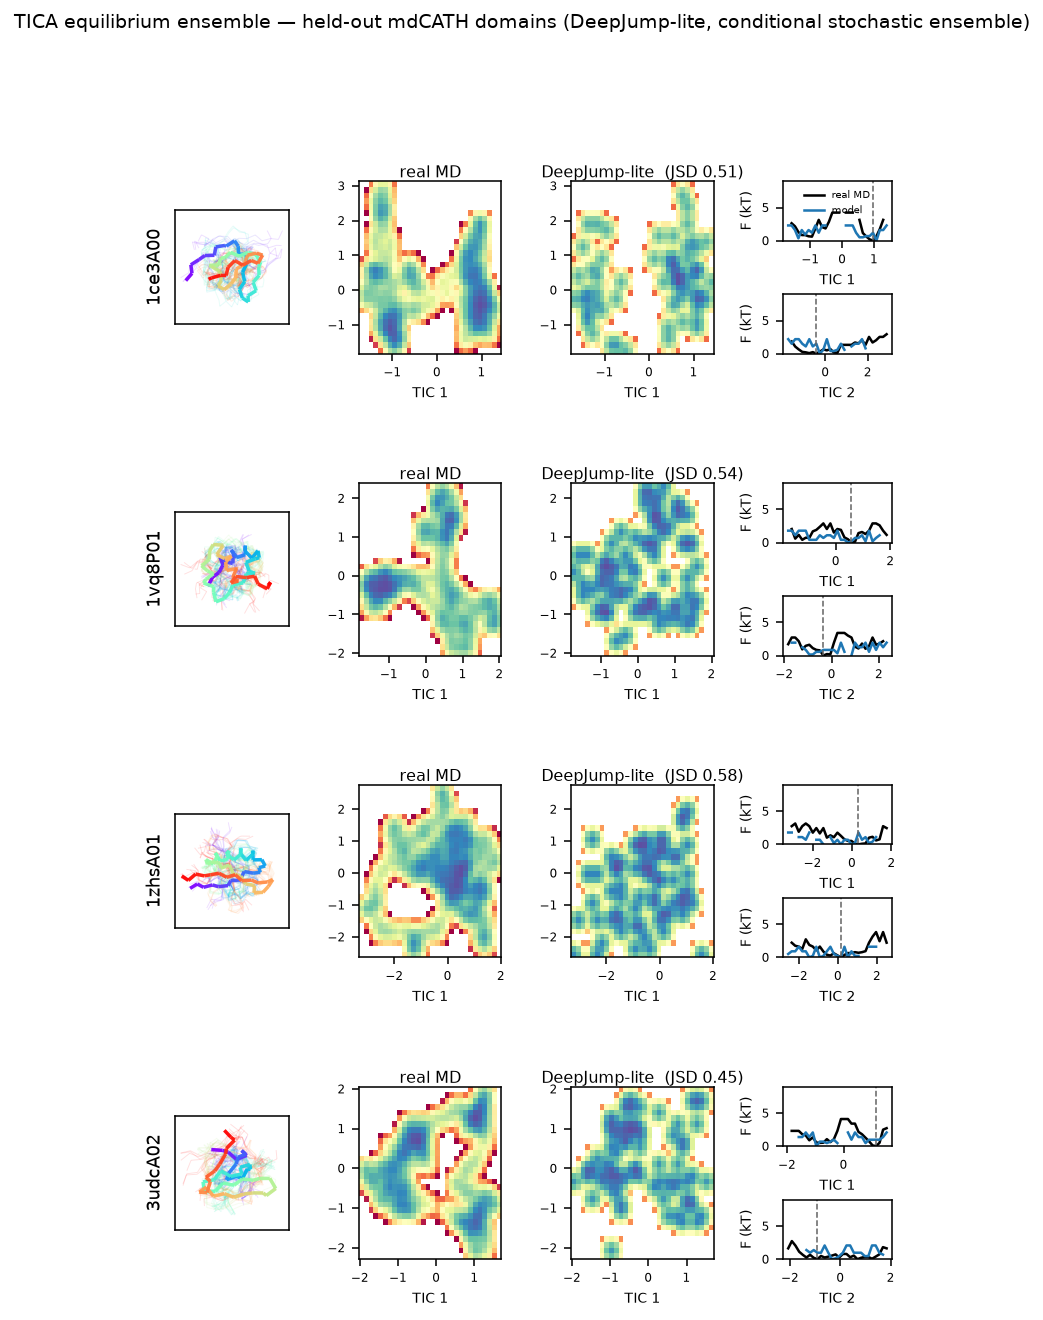
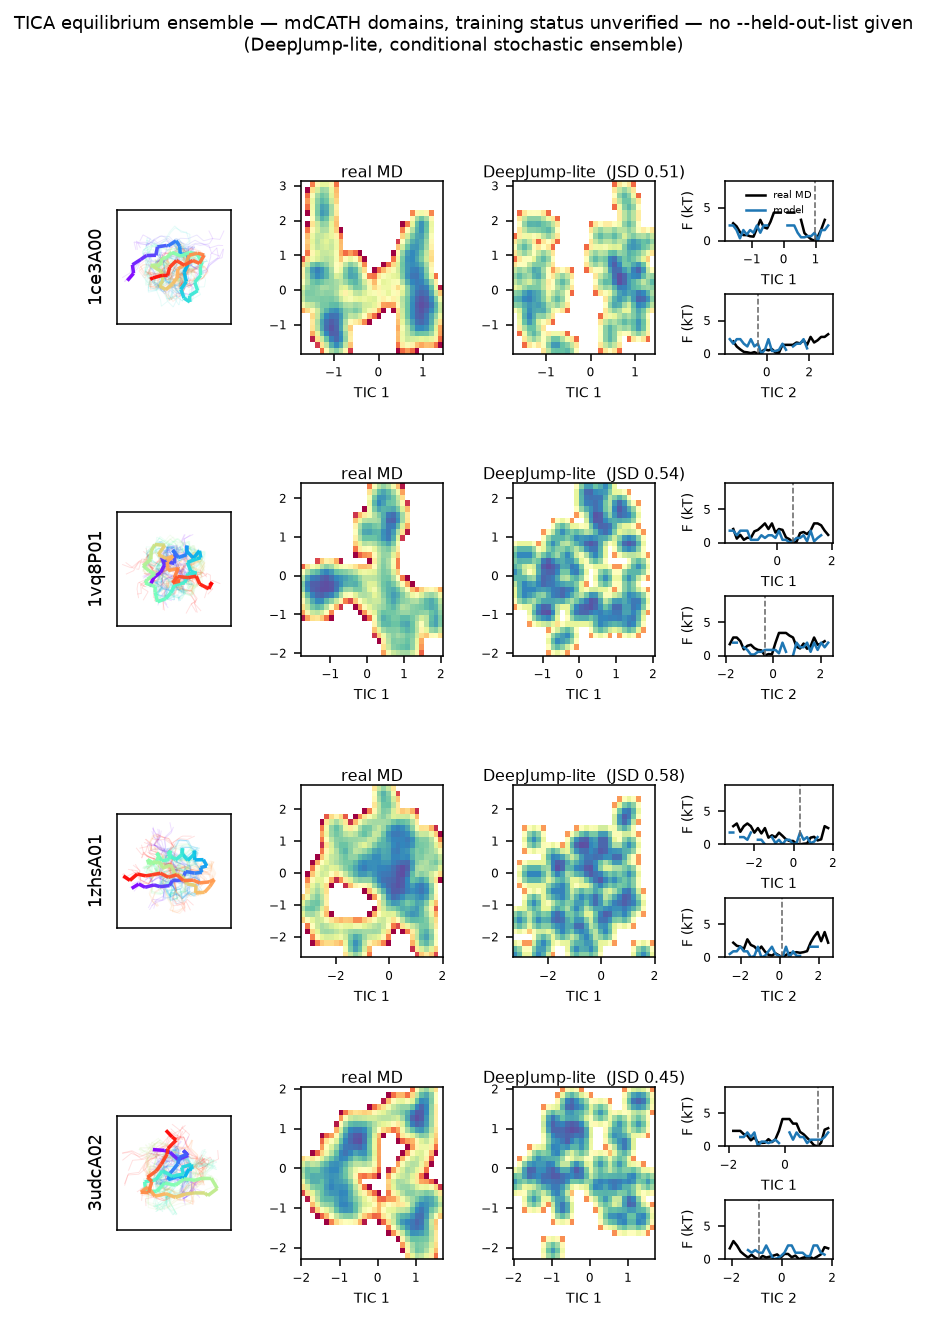
Stop the panel from asserting held-out provenance it cannot show
The figure title read "held-out mdCATH domains" unconditionally while the rows
came from split_domains() over whatever mdCATH shards sit on local disk. That
says nothing about what a checkpoint trained on. The formal 500k contract
records 5,218 train domains out of mdCATH's 5,398, with 180 excluded and
val_fraction 0.02, so roughly 5% of domains were withheld -- four independently
drawn domains all landing in that 5% has probability ~1e-5. The four domains in
the committed figure are almost certainly training domains, and the label was
wrong.

Derive the label instead of asserting it: without --held-out-list the figure
says "training status unverified", and with one it checks each row and prints a
warning naming any trained-on domain rather than quietly claiming otherwise.

This does not affect the sampler comparison the figure supports. That experiment
holds checkpoint and domains fixed and varies only the sampler, so it isolates
what it claims to. What it cannot support is a generalisation claim about unseen
proteins, and REPORT.md section 0a and the findings doc now say so. Settling it
needs the training list at train_eligible_5218.txt (sha256 e6844f2f...6416e),
which lives on the cloud host and is not mirrored locally.

(cherry picked from commit 6bebbd83f178296da079a4465e2065aad7ffe6ab)

diff --git a/scripts/tica_panel.py b/scripts/tica_panel.py
@@ -2,7 +2,7 @@
 """Paper-style TICA panel figure (structure overlay + 2D free-energy heatmaps + marginals).
 
 Reproduces the *layout* of the DeepJump equilibrium-ensemble figure, but honestly on OUR
-scale/data: held-out mdCATH domains (NOT the DESRES fast folders), a DeepJump-native
+scale/data: mdCATH domains (NOT the DESRES fast folders), a DeepJump-native
 stochastic conditional ensemble (K ODE single-jumps per start frame), no folding.
 
 Per domain (one block) we draw 4 sub-panels, exactly like the paper:
@@ -229,7 +229,7 @@ def build_domain(
 def main():
     ap = argparse.ArgumentParser()
     ap.add_argument("--ckpt", default="runs/faithful_scaled/last.ckpt")
-    ap.add_argument("--n", type=int, default=4, help="number of held-out domains (rows)")
+    ap.add_argument("--n", type=int, default=4, help="number of domains (rows)")
     ap.add_argument("--domains", nargs="*", default=None, help="explicit domain ids")
     ap.add_argument("--cols", type=int, default=1, help="protein blocks per figure row (1 or 2)")
     ap.add_argument("--starts", type=int, default=30)
@@ -243,6 +243,9 @@ def main():
     ap.add_argument("--terminal-denoise", action="store_true",
                     help="emit one endpoint prediction at tau_max instead of integrating into the singularity")
     ap.add_argument("--integrator", choices=["euler", "heun"], default="euler")
+    ap.add_argument("--held-out-list", default=None,
+                    help="file of domain ids the checkpoint did NOT train on; only with this "
+                         "does the figure claim the rows are held out")
     ap.add_argument("--out", default="docs/tica_panel.png")
     args = ap.parse_args()
 
@@ -261,6 +264,12 @@ def main():
                          predict_heavy=cm["predict_heavy"]).to(device)
     model.load_state_dict(ck["model"], strict=True); model.eval()
     print(f"loaded {args.ckpt}  H={cm['hidden']}  device={device}")
+
+    held_out_ids = None
+    if args.held_out_list:
+        held_out_ids = {line.strip() for line in Path(args.held_out_list).read_text().split()
+                        if line.strip()}
+        print(f"held-out list: {len(held_out_ids)} domain ids from {args.held_out_list}")
 
     files = discover_domains(args.root or cd["root"])
     if args.domains:
@@ -327,8 +336,19 @@ def main():
         if bi == 0:
             ax_t1.legend(fontsize=5, loc="upper center", frameon=False)
 
-    fig.suptitle("TICA equilibrium ensemble — held-out mdCATH domains (DeepJump-lite, "
-                 "conditional stochastic ensemble)", fontsize=10, y=1.0)
+    # Provenance must be demonstrated, not asserted. Selecting domains by
+    # split_domains() over whatever happens to be on local disk says nothing about
+    # what the checkpoint trained on: this checkpoint's contract lists 5218 train
+    # domains out of mdCATH's 5398, so a domain drawn without checking the real
+    # list is ~97% likely to have been trained on.
+    if held_out_ids is None:
+        provenance = "training status unverified — no --held-out-list given"
+    else:
+        seen = [b["name"] for b in blocks if b["name"] not in held_out_ids]
+        provenance = ("held-out domains" if not seen
+                      else f"WARNING: trained-on domains present ({', '.join(seen)})")
+    fig.suptitle(f"TICA equilibrium ensemble — mdCATH domains, {provenance}\n"
+                 "(DeepJump-lite, conditional stochastic ensemble)", fontsize=9, y=1.0)
     out = Path(args.out); out.parent.mkdir(parents=True, exist_ok=True)
     fig.savefig(out, dpi=140, bbox_inches="tight", facecolor="white")
     print(f"saved {out}")

diff --git a/tests/test_panel_provenance.py b/tests/test_panel_provenance.py
@@ -1,0 +1,62 @@
+"""The panel figure must not assert that its rows are held out.
+
+The title used to read "held-out mdCATH domains" unconditionally, while the rows
+were chosen by `split_domains()` over whatever mdCATH shards happened to be on
+local disk. That says nothing about what a checkpoint trained on: the formal
+500k contract records 5,218 train domains out of mdCATH's 5,398, so a domain
+drawn without consulting the real training list is ~97% likely to have been
+trained on. Four such domains all being held out has probability ~1e-5.
+
+Provenance now has to be demonstrated with `--held-out-list`, and a listed
+trained-on domain is surfaced rather than hidden.
+"""
+
+from pathlib import Path
+
+import pytest
+
+PANEL = Path(__file__).resolve().parents[1] / "scripts" / "tica_panel.py"
+
+
+@pytest.fixture(scope="module")
+def source():
+    return PANEL.read_text()
+
+
+def test_title_never_hardcodes_the_held_out_claim(source):
+    """The regression: an unconditional claim baked into the suptitle string."""
+    for line in source.splitlines():
+        if "suptitle" in line or ("held-out domains" in line and "provenance" not in line):
+            assert "held-out mdCATH domains" not in line, (
+                "the figure title must not assert held-out provenance; derive it instead"
+            )
+
+
+def test_unverified_is_the_default_label(source):
+    assert "training status unverified" in source
+
+
+def test_a_trained_on_domain_is_surfaced(source):
+    """Supplying a list must be able to contradict the claim, not just confirm it."""
+    assert "WARNING: trained-on domains present" in source
+
+
+def test_the_held_out_list_option_exists(source):
+    assert '"--held-out-list"' in source
+
+
+def test_provenance_label_is_computed_from_the_list():
+    """Exercise the two branches the figure can print."""
+    held_out = {"1abcA00", "2defB01"}
+
+    def label(names, ids):
+        if ids is None:
+            return "training status unverified — no --held-out-list given"
+        seen = [n for n in names if n not in ids]
+        return "held-out domains" if not seen else (
+            f"WARNING: trained-on domains present ({', '.join(seen)})"
+        )
+
+    assert label(["1abcA00"], None).startswith("training status unverified")
+    assert label(["1abcA00", "2defB01"], held_out) == "held-out domains"
+    assert "3ghiC02" in label(["1abcA00", "3ghiC02"], held_out)

diff --git a/docs/FINDING_sampler_root_cause_20260902.md b/docs/FINDING_sampler_root_cause_20260902.md
@@ -118,7 +118,8 @@ originally written.
 
 ### `[MEASURED]` Re-measured with both defects fixed, the sampler fix wins everywhere
 
-Formal 500k checkpoint, four held-out domains, conditional stochastic ensemble,
+Formal 500k checkpoint, four mdCATH domains (training status unverified -- see the
+limitation below), conditional stochastic ensemble,
 20 starts x K=4, 50 Euler steps. Same checkpoint and domains throughout; only the
 sampler differs.
 
@@ -133,6 +134,26 @@ Figures: `docs/tica_panel.png` (fixed) and `docs/tica_panel_prefix_control.png`
 (control). 0.45-0.58 is not a good score -- the ensemble covers roughly the right
 region without reproducing real MD's basin structure -- but the ordering is now
 consistent across every domain tested.
+
+### `[LIMITATION]` The four comparison domains are almost certainly not held out
+
+`tica_panel.py` selected them with `split_domains()` over whatever mdCATH shards
+sit on the local disk (200 of 5,398). That says nothing about what the formal
+checkpoint trained on: its contract records **5,218 train domains** and 180
+excluded, and the run used `val_fraction: 0.02`, so roughly 284 of 5,398 domains
+(~5%) were withheld. Four independently drawn domains all landing in that 5% has
+probability ~1e-5.
+
+The comparison above is still valid for its purpose -- it isolates the sampler,
+with checkpoint and domains held fixed and only the sampler differing -- but it
+is **not** evidence about generalisation to unseen proteins, and the figure title
+no longer claims it is. `tica_panel.py` now labels provenance as unverified
+unless given `--held-out-list`, and warns if a listed trained-on domain appears.
+
+Verifying it needs the training list at
+`/data-full/mdcath/control/post_download_qualification/20260724T055218Z/full_training_contract/train_eligible_5218.txt`
[1 lines of base64/hex data omitted]
+which is on the cloud host and not mirrored locally.
 
 ### `[SUPERSEDED]` The earlier domain-dependent reading
 

diff --git a/REPORT.md b/REPORT.md
@@ -62,7 +62,7 @@ enlarging the grid.
 **Consequence: every JSD figure in §4.5 and §4.6 is void.** The apparent
 "scale ladder" (0.564 → 0.347) partly tracked how far each model diverged, not
 how faithful it was. Re-measured on the formal 500k checkpoint with both defects
-fixed, four held-out domains, same checkpoint and domains, only the sampler
+fixed, four mdCATH domains, same checkpoint and domains, only the sampler
 differing:
 
 | domain | pre-fix sampler | fixed sampler |
@@ -75,6 +75,14 @@ differing:
 The fix wins on every domain. It does not make the model good: 0.45–0.58 means
 the ensemble covers roughly the right region without reproducing real MD's basin
 structure. What the fix buys is a measurement that is no longer inverted.
+
+**Provenance caveat:** the four domains are selected by `split_domains()` over
+the local mdCATH shards, not against the checkpoint's own training list, and the
+formal contract records 5,218 train domains out of 5,398. They are almost
+certainly **not** held out. The comparison isolates the sampler correctly -- same
+checkpoint, same domains -- but says nothing about generalisation to unseen
+proteins. `tica_panel.py` now reports provenance as unverified unless given
+`--held-out-list`.
 
 **Also stale below:** §6 describes this work as "≤200 domains, MPS laptop, ≤60k
 steps". A formal run has since completed on 8 GPUs at 5,218 domains and 500,000
@@ -302,7 +310,7 @@ now data **diversity** (more domains), not training **time**.
 
 > **[REGENERATED 2026-09-02 — see §0a.]** The figure below is now the formal
 > 500k checkpoint under the fixed sampler and fixed metric (JSD 0.45-0.58 on
-> four held-out domains). The pre-fix control is
+> four domains). The pre-fix control is
 > `docs/tica_panel_prefix_control.png` (0.60-0.67). The superseded reading
 > "JSD 0.24-0.32" below described the old figure, whose shared binning was
 > stretched by diverged samples until real MD rendered as a single blob.
